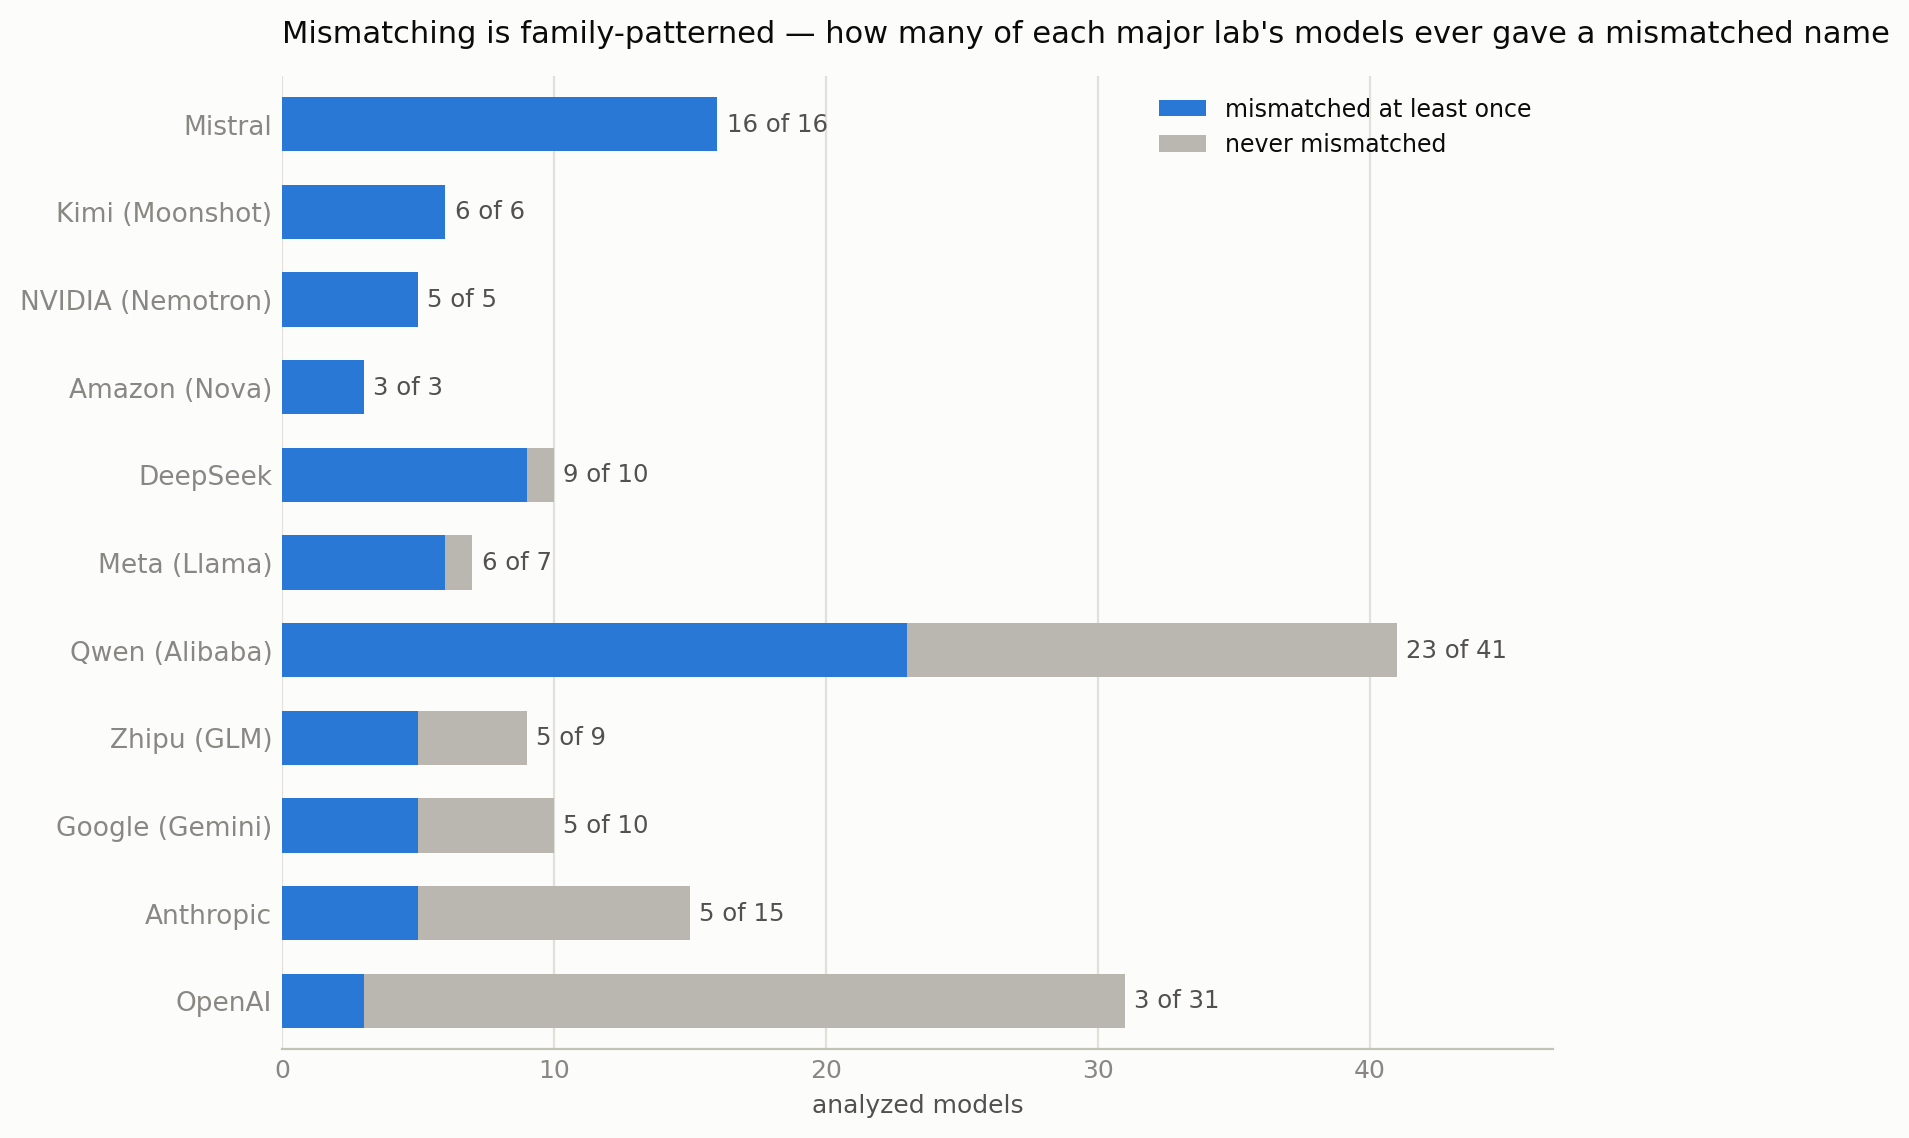
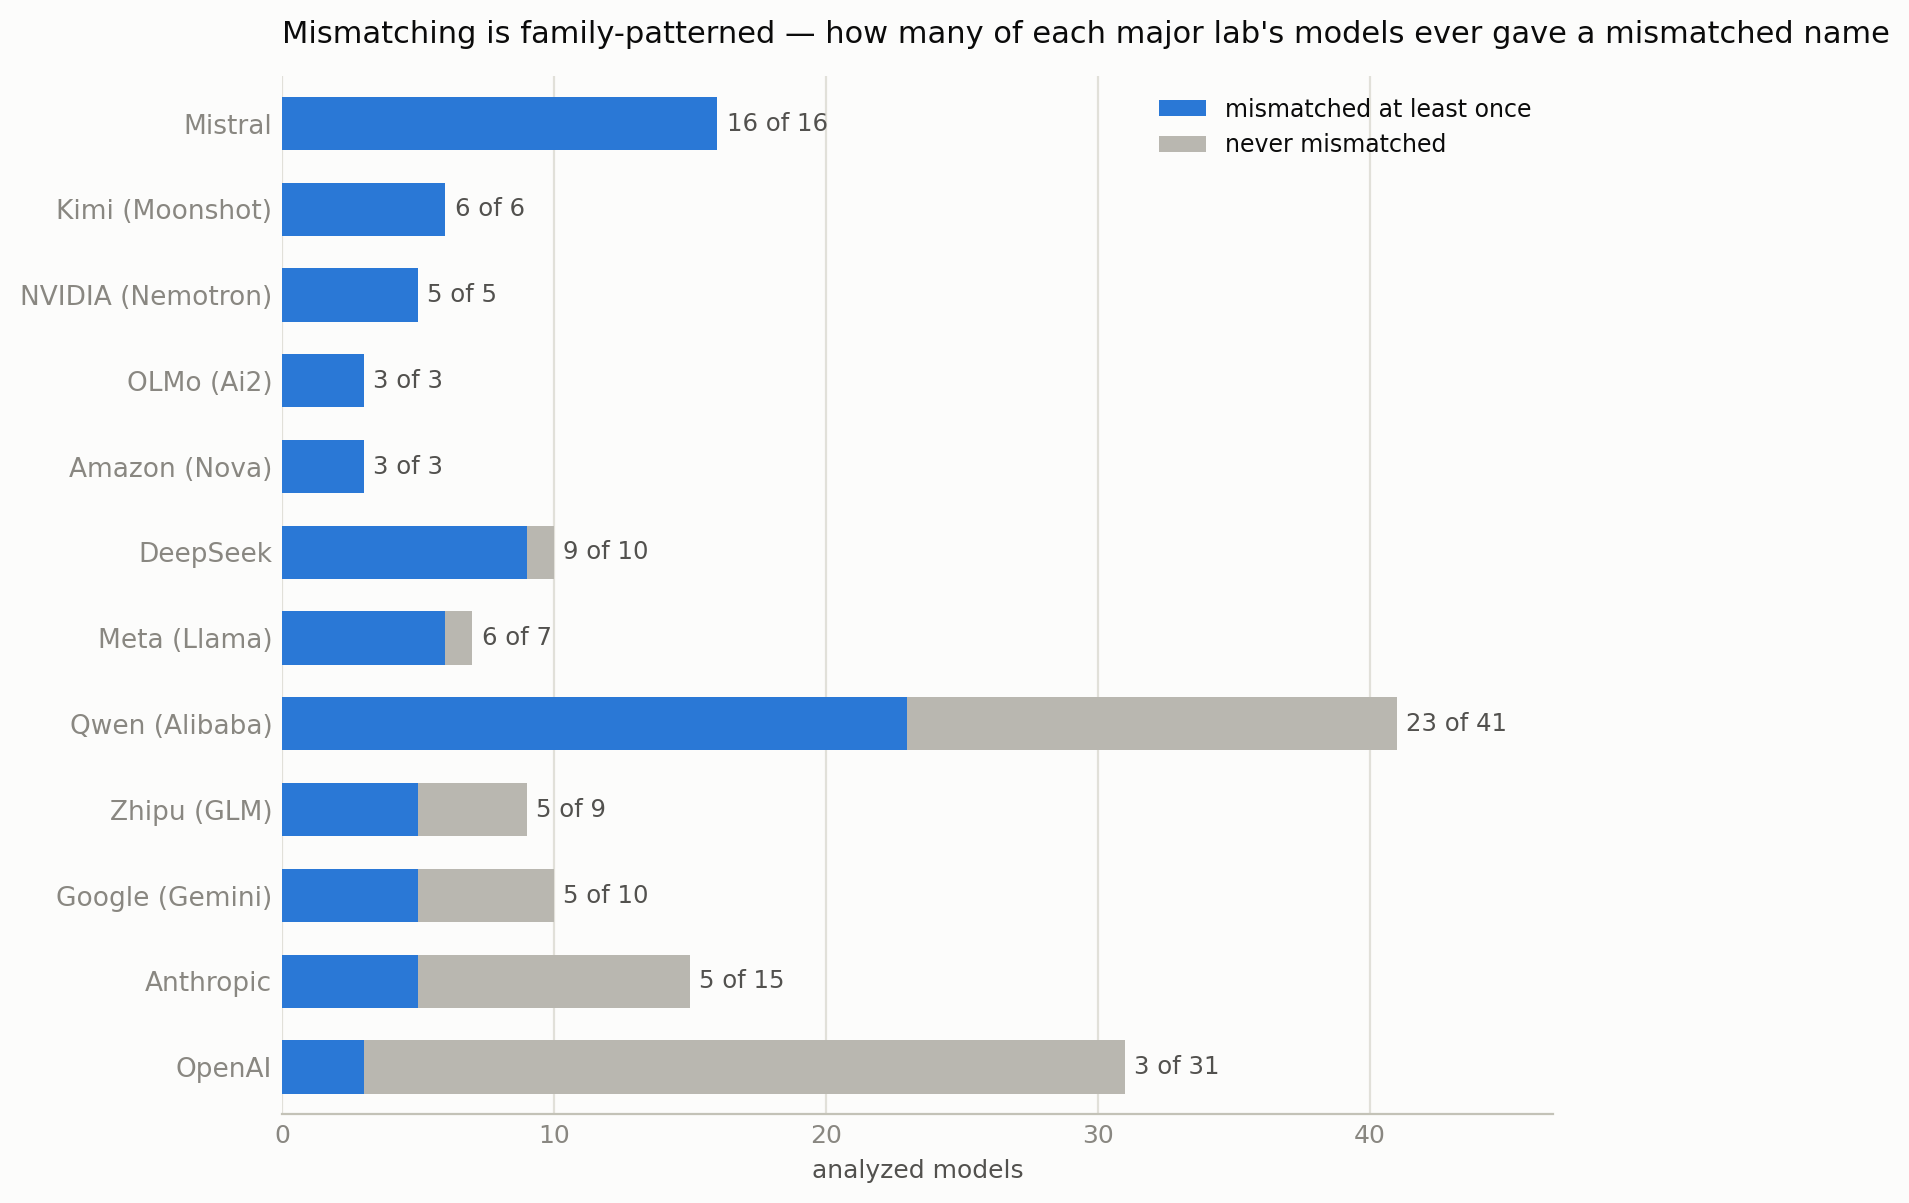
Round-3 close: fig_all_models legend display names, OLMo row in family counts
Claude-Session: https://claude.ai/code/session_01Anj4JvuNgPGS3kunnJgPkZ

diff --git a/sweep/make_figs.py b/sweep/make_figs.py
@@ -284,7 +284,8 @@ def fig_all_models(reg, per):
     ax.set_ylabel("model (sorted)")
     ax.xaxis.grid(True, color=GRID, lw=0.8)
     ax.set_axisbelow(True)
-    ax.legend(handles=[Patch(color=fc[f], label=f) for f in top] + [Patch(color="#b9b7b0", label="other")],
+    ax.legend(handles=[Patch(color=fc[f], label=FAMILY_DISPLAY.get(f, f.title())) for f in top]
+              + [Patch(color="#b9b7b0", label="other")],
               loc="lower right", frameon=False, fontsize=8, title="family (top-8 by mismatch)", title_fontsize=8)
     style(ax)
     ax.set_title(f"Name-mismatch rate — the {n} models with at least one mismatch "

diff --git a/sweep/fig_post.py b/sweep/fig_post.py
@@ -67,7 +67,7 @@ def fig_distribution(per):
 # --------------------------------------------------- family at-least-once bars
 # display names come from make_figs.FAMILY_DISPLAY — the one source of truth
 MAIN_LABS = ["openai", "anthropic", "google", "meta", "deepseek", "qwen",
-             "kimi", "zhipu", "nvidia", "mistral", "amazon", "baidu"]
+             "kimi", "zhipu", "nvidia", "mistral", "amazon", "baidu", "olmo"]
 NEVER_GRAY = "#b9b7b0"   # the house data-gray (fig_all_models "other", fig_flow unlisted)
 
 
